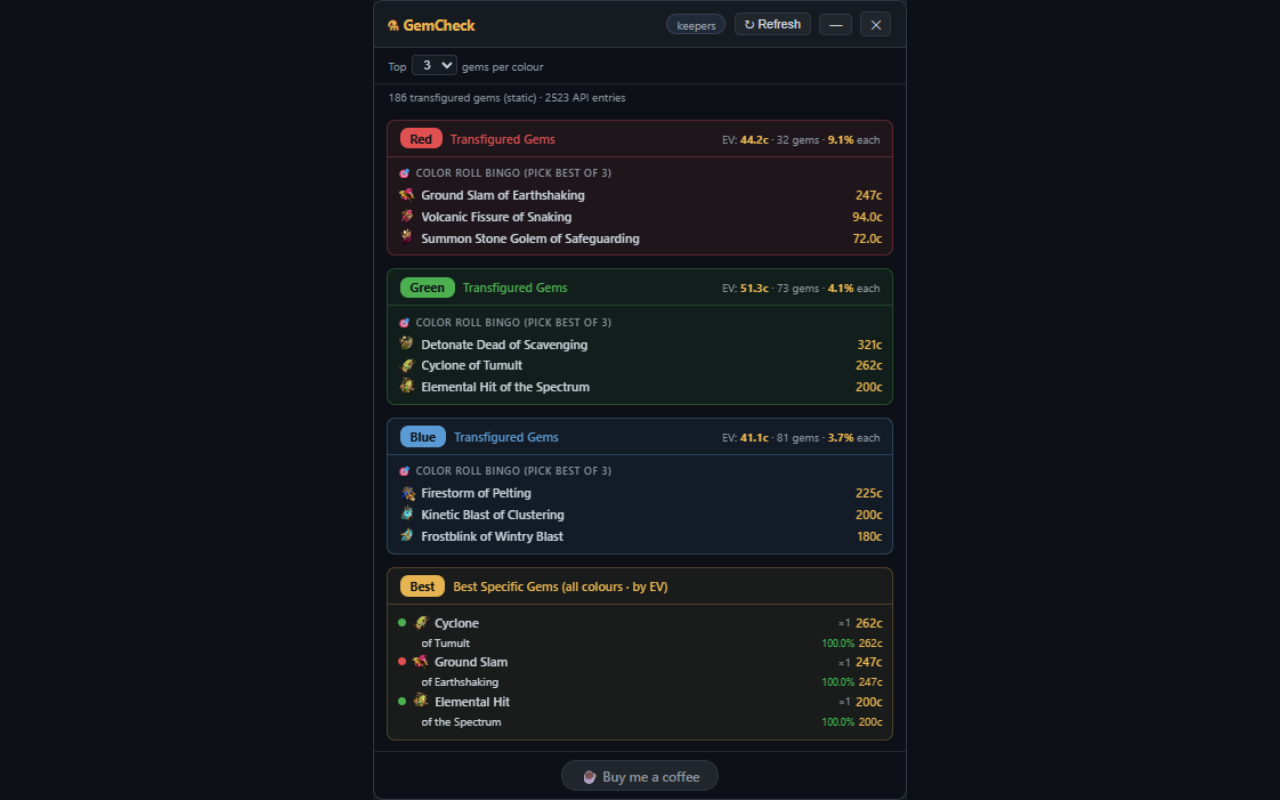
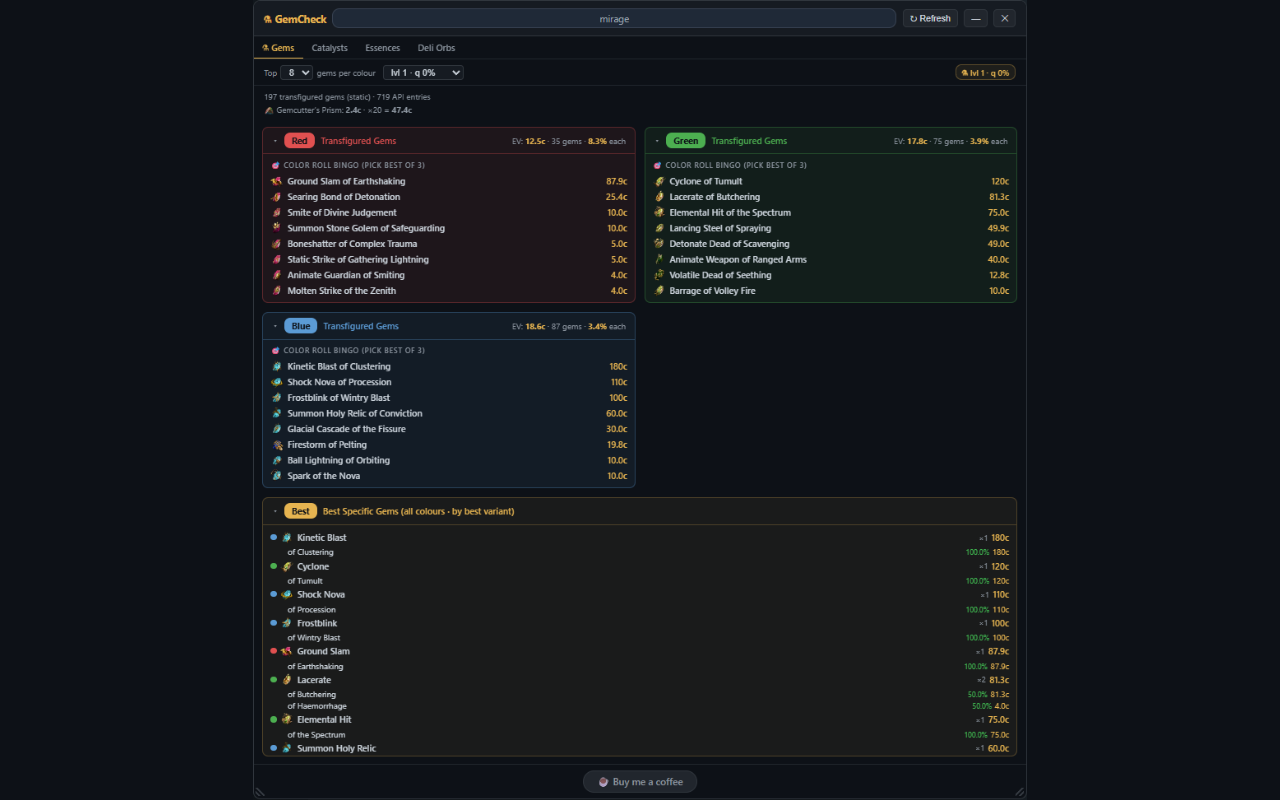
chore: UI fixes

diff --git a/src/content.js b/src/content.js
@@ -227,6 +227,7 @@
     if (v == null) return '—';
     if (v >= 1000) return (v / 1000).toFixed(1) + 'k c';
     if (v >= 100)  return Math.round(v) + 'c';
+    if (v > 0 && v < 0.1) return v.toFixed(2) + 'c';
     return v.toFixed(1) + 'c';
   }
 
@@ -420,8 +421,9 @@
   }
 
   // ─── Data Processing ──────────────────────────────────────────────────────
-  function processGems(apiData, topN = 5) {
-    const lines = (apiData.lines || []).filter(g => !g.corrupted);
+  function processGems(apiData, topN = 5, gemLQ = { level: 1, quality: 0 }) {
+    const allLines = (apiData.lines || []).filter(g => !g.corrupted);
+    const lines = allLines.filter(g => g.gemLevel === gemLQ.level && (g.gemQuality ?? 0) === gemLQ.quality);
 
     // Build cheapest price lookup from API: transfig name → entry
     const priceMap = {};
@@ -639,16 +641,19 @@
       flex-shrink: 0;
     }
     #hdr:active { cursor: grabbing; }
-    #title { font-weight: 700; font-size: 14px; color: #e6b450; flex: 1; }
+    #title { font-weight: 700; font-size: 14px; color: #e6b450; }
     #league-badge {
-      font-size: 11px; padding: 2px 9px;
+      font-size: 13px; padding: 4px 9px;
       background: #1f2937; color: #9ca3af;
       border: 1px solid #374151; border-radius: 10px;
+      flex: 1; text-align: center;
+      white-space: normal; word-break: break-word; line-height: 1.3;
     }
     .hbtn {
       background: #21262d; border: 1px solid #30363d;
       color: #c9d1d9; border-radius: 5px;
-      padding: 3px 9px; cursor: pointer; font-size: 12px;
+      padding: 0 9px; cursor: pointer; font-size: 12px;
+      height: 24px; line-height: 24px;
       transition: background .15s;
     }
     .hbtn:hover { background: #30363d; }
@@ -686,6 +691,8 @@
 
     /* ── Scroll body ── */
     #body { overflow-y: auto; flex: 1; min-height: 0; padding: 10px 12px; display: flex; flex-direction: column; gap: 12px; }
+    #body.grid-layout { display: grid; grid-template-columns: 1fr 1fr; grid-auto-rows: auto; align-content: start; }
+    #body.grid-layout .ccard-full { grid-column: 1 / -1; }
 
     /* ── Resize handle ── */
     #resize-handle {
@@ -696,6 +703,14 @@
       background: linear-gradient(135deg, transparent 40%, #8b949e 40%, #8b949e 55%, transparent 55%, transparent 70%, #8b949e 70%, #8b949e 85%, transparent 85%);
     }
     #resize-handle:hover { opacity: .7; }
+    #resize-handle-left {
+      position: absolute; bottom: 3px; left: 3px;
+      width: 12px; height: 12px;
+      cursor: nesw-resize;
+      opacity: .3;
+      background: linear-gradient(225deg, transparent 40%, #8b949e 40%, #8b949e 55%, transparent 55%, transparent 70%, #8b949e 70%, #8b949e 85%, transparent 85%);
+    }
+    #resize-handle-left:hover { opacity: .7; }
 
     /* ── Color card ── */
     .ccard {
@@ -874,7 +889,15 @@
       +   '</select>'
       +   '<span>gems per colour</span>'
       + '</div>'
-      + '<span id="font-badge" title="Prices shown are for level 1, 0% quality gems — the raw output of the Divine Font">&#x2697; lvl\u00a01 \u00b7 q\u00a00%</span>'
+      + '<div class="cl">'
+      +   '<select id="gem-lq">'
+      +     '<option value="1-0">lvl\u00a01 \u00b7 q\u00a00%</option>'
+      +     '<option value="1-20">lvl\u00a01 \u00b7 q\u00a020%</option>'
+      +     '<option value="20-0">lvl\u00a020 \u00b7 q\u00a00%</option>'
+      +     '<option value="20-20">lvl\u00a020 \u00b7 q\u00a020%</option>'
+      +   '</select>'
+      + '</div>'
+      + '<span id="font-badge" title="Prices for non-corrupted gems at the selected level and quality">&#x2697;</span>'
       + '</div>'
       + '<div id="status" class="load">Loading\u2026</div>'
       + '<div id="body"></div>'
@@ -882,6 +905,7 @@
       +   '<a href="https://buymeacoffee.com/lebedevsd" target="_blank" rel="noopener">&#x2615; Buy me a coffee</a>'
       + '</div>'
       + '<div id="resize-handle"></div>'
+      + '<div id="resize-handle-left"></div>'
       + '</div>';
     shadow.appendChild(tpl.content);
 
@@ -960,7 +984,7 @@
     }).join('');
 
     return `
-      <div class="ccard" style="--accent:#e6b450;--bg:rgba(230,180,80,.06);--border:rgba(230,180,80,.25)">
+      <div class="ccard ccard-full" style="--accent:#e6b450;--bg:rgba(230,180,80,.06);--border:rgba(230,180,80,.25)">
         <div class="ccard-hdr">
           <span class="chevron">&#x25BE;</span>
           <span class="cbadge" style="background:#e6b450;color:#0d1117">Best</span>
@@ -1005,7 +1029,7 @@
     const profitable = netEv > 0;
     const evColor = profitable ? '#3fb950' : '#f85149';
     return `
-      <div class="ccard" style="--accent:#58a6ff;--bg:rgba(88,166,255,.08);--border:rgba(88,166,255,.3)">
+      <div class="ccard ccard-full" style="--accent:#58a6ff;--bg:rgba(88,166,255,.08);--border:rgba(88,166,255,.3)">
         <div class="ccard-hdr">
           <span class="chevron">&#x25BE;</span>
           <span class="cbadge" style="background:#58a6ff;color:#0d1117">${escHtml(label)}</span>
@@ -1029,7 +1053,7 @@
       const profitable = netEv > 0;
       const evColor = profitable ? '#3fb950' : '#f85149';
       return `
-        <div class="ccard" style="--accent:#a855f7;--bg:rgba(168,85,247,.08);--border:rgba(168,85,247,.3)">
+        <div class="ccard ccard-full" style="--accent:#a855f7;--bg:rgba(168,85,247,.08);--border:rgba(168,85,247,.3)">
           <div class="ccard-hdr">
             <span class="chevron">&#x25BE;</span>
             <span class="cbadge" style="background:#a855f7;color:#fff">${escHtml(tier)}</span>
@@ -1059,11 +1083,15 @@
     setHTML(status, statusText);
   }
 
-  function render(shadow, results, topN) {
+  function render(shadow, results, topN, gcp = {}) {
     let html = '';
     for (const c of ['r', 'g', 'b']) html += renderColorCard(results.colorStats[c], c);
     html += renderSpecificSection(results.gemPicks, topN);
-    renderIntoBody(shadow, html, `${results.totalTransfig} transfigured gems (static) · ${results.totalLines} API entries`);
+    const gcpImg  = gcp.icon ? `<img src="${escHtml(gcp.icon)}" style="width:14px;height:14px;object-fit:contain;vertical-align:middle;margin-right:3px">` : '';
+    const gcpLine = gcp.price > 0
+      ? `<br>${gcpImg}Gemcutter\u2019s Prism: <strong>${fmtC(gcp.price)}</strong> \u00b7 \u00d720 = <strong>${fmtC(gcp.price * 20)}</strong>`
+      : '';
+    renderIntoBody(shadow, html, `${results.totalTransfig} transfigured gems (static) \u00b7 ${results.totalLines} API entries${gcpLine}`);
   }
 
   function renderHarvest(shadow, results, label) {
@@ -1104,16 +1132,37 @@
 
   // ─── Resize ───────────────────────────────────────────────────────────────
   function makeResizable(shadow) {
+    const host   = shadow.host;
     const panel  = shadow.getElementById('panel');
-    const handle = shadow.getElementById('resize-handle');
-    handle.addEventListener('mousedown', e => {
-      e.preventDefault();
-      e.stopPropagation();
+
+    shadow.getElementById('resize-handle').addEventListener('mousedown', e => {
+      e.preventDefault(); e.stopPropagation();
       const startX = e.clientX, startY = e.clientY;
       const startW = panel.offsetWidth, startH = panel.offsetHeight;
       const onMove = ev => {
         panel.style.width     = Math.max(360, startW + ev.clientX - startX) + 'px';
         panel.style.maxHeight = Math.max(200, startH + ev.clientY - startY) + 'px';
+      };
+      const onUp = () => {
+        document.removeEventListener('mousemove', onMove);
+        document.removeEventListener('mouseup',  onUp);
+      };
+      document.addEventListener('mousemove', onMove);
+      document.addEventListener('mouseup',  onUp);
+    });
+
+    shadow.getElementById('resize-handle-left').addEventListener('mousedown', e => {
+      e.preventDefault(); e.stopPropagation();
+      const startX = e.clientX, startY = e.clientY;
+      const startW = panel.offsetWidth, startH = panel.offsetHeight;
+      const startLeft = host.getBoundingClientRect().left;
+      const onMove = ev => {
+        const dx   = ev.clientX - startX;
+        const newW = Math.max(360, startW - dx);
+        panel.style.width     = newW + 'px';
+        panel.style.maxHeight = Math.max(200, startH + ev.clientY - startY) + 'px';
+        host.style.right = 'auto';
+        host.style.left  = (startLeft + startW - newW) + 'px';
       };
       const onUp = () => {
         document.removeEventListener('mousemove', onMove);
@@ -1133,10 +1182,22 @@
     makeDraggable(host, shadow.getElementById('hdr'));
     makeResizable(shadow);
 
+    const body = shadow.getElementById('body');
+    new ResizeObserver(entries => {
+      body.classList.toggle('grid-layout', entries[0].contentRect.width >= 680);
+    }).observe(body);
+
     const status = shadow.getElementById('status');
     const ctrl   = shadow.getElementById('ctrl');
     let topN = 8;
+    let gemLQ = { level: 1, quality: 0 };
     let activeTab = tabFromUrl() || 'gems';
+
+    function updateFontBadge() {
+      const b = shadow.getElementById('font-badge');
+      b.textContent = `\u2697 lvl\u00a0${gemLQ.level} \u00b7 q\u00a0${gemLQ.quality}%`;
+    }
+    updateFontBadge();
 
     function setActiveTab(tab) {
       activeTab = tab;
@@ -1155,8 +1216,15 @@
 
       try {
         if (tab === 'gems') {
-          const data = await fetchItems(league, 'SkillGem');
-          render(shadow, processGems(data, topN), topN);
+          const [data, currData] = await Promise.all([
+            fetchItems(league, 'SkillGem'),
+            fetchItems(league, 'Currency').catch(() => ({ lines: [], currencyDetails: [] })),
+          ]);
+          const gcpLine   = (currData.lines || []).find(l => (l.currencyTypeName || l.name) === "Gemcutter's Prism");
+          const gcpDetail = (currData.currencyDetails || []).find(d => d.name === "Gemcutter's Prism");
+          const gcpPrice  = gcpLine ? (gcpLine.chaosEquivalent || gcpLine.chaosValue || 0) : 0;
+          const gcpIcon   = gcpDetail ? gcpDetail.icon : '';
+          render(shadow, processGems(data, topN, gemLQ), topN, { price: gcpPrice, icon: gcpIcon });
         } else if (tab === 'essences') {
           const cfg = HARVEST_TABS.essences;
           const [data, lfData, itemData] = await Promise.all([
@@ -1203,11 +1271,18 @@
       const tabs   = shadow.getElementById('tabs');
       const st     = shadow.getElementById('status');
       const hidden = body.style.display === 'none';
-      [body, tabs, ctrl, st].forEach(el => (el.style.display = hidden ? '' : 'none'));
+      [body, tabs, st].forEach(el => (el.style.display = hidden ? '' : 'none'));
+      if (hidden) setActiveTab(activeTab); else ctrl.style.display = 'none';
       shadow.getElementById('btn-min').textContent = hidden ? '—' : '□';
     };
     shadow.getElementById('top-n').onchange = e => {
       topN = parseInt(e.target.value, 10);
+      loadTab('gems');
+    };
+    shadow.getElementById('gem-lq').onchange = e => {
+      const [l, q] = e.target.value.split('-').map(Number);
+      gemLQ = { level: l, quality: q };
+      updateFontBadge();
       loadTab('gems');
     };
 

diff --git a/CHANGELOG.md b/CHANGELOG.md
@@ -1,5 +1,27 @@
 # Changelog
 
+## [1.1.1] – 2026-03-13
+
+### Added
+- **Harvest swap tabs** — Catalysts, Essences, and Delirium Orbs tabs with pool EV, craft threshold, and ▲ keep / ▼ craft indicators per item
+- **Weighted EV** — Catalyst and Delirium Orb probabilities use baked-in observed drop rates from ~2000 swaps by lifewithoutpants_ (YouTube) instead of uniform distribution
+- **Gem level/quality filter** — switch between lvl 1 q 0%, lvl 1 q 20%, lvl 20 q 0%, and lvl 20 q 20% for all gem pricing
+- **EV methodology note** — shown in the status bar on Catalysts and Deli Orbs tabs with data credit
+
+### Changed
+- Transfigured gem pool updated for the new league: 197 total (35r / 75g / 87b), up from 166
+- Header buttons and league badge unified to consistent 24px height
+- Arrows (▲/▼) moved to fixed-width column so prices don't shift
+
+### Fixed
+- Minimize → restore now correctly hides gem controls when on a harvest tab
+- Gem q 0% filter now matches API entries where `gemQuality` is absent (treated as 0)
+- Images for Essences and Delirium Orbs now load via itemoverview CDN URLs
+- Lifeforce prices below 0.1c now show two decimal places instead of rounding to 0.0c
+- Essences now fetch from the exchange API matching other harvest tabs
+
+---
+
 ## [1.0.4] – 2026-03-03
 
 ### Fixed

diff --git a/README.md b/README.md
@@ -39,6 +39,7 @@ Drop probabilities for Catalysts and Delirium Orbs are based on ~2000 observed s
 - **Color Roll Bingo** — for each colour (Red / Green / Blue) shows the top target gems with pool EV, hit probability per gem, and current sell price.
 - **Best Specific Gems** — a combined cross-colour ranking of all base gems sorted by EV, with every variant's probability and sell price listed.
 - **Configurable Top N** — choose how many gems to show per section (3 / 5 / 8).
+- **Level/quality filter** — switch between lvl 1 q 0%, lvl 1 q 20%, lvl 20 q 0%, and lvl 20 q 20% to compare prices across gem states.
 
 ### Harvest Swap (Currency / Essences / Delirium Orbs pages)
 - **Catalysts** — weighted EV with observed drop probabilities; excludes Dextral, Sinistral, and Tainted Catalysts (different mechanic).
